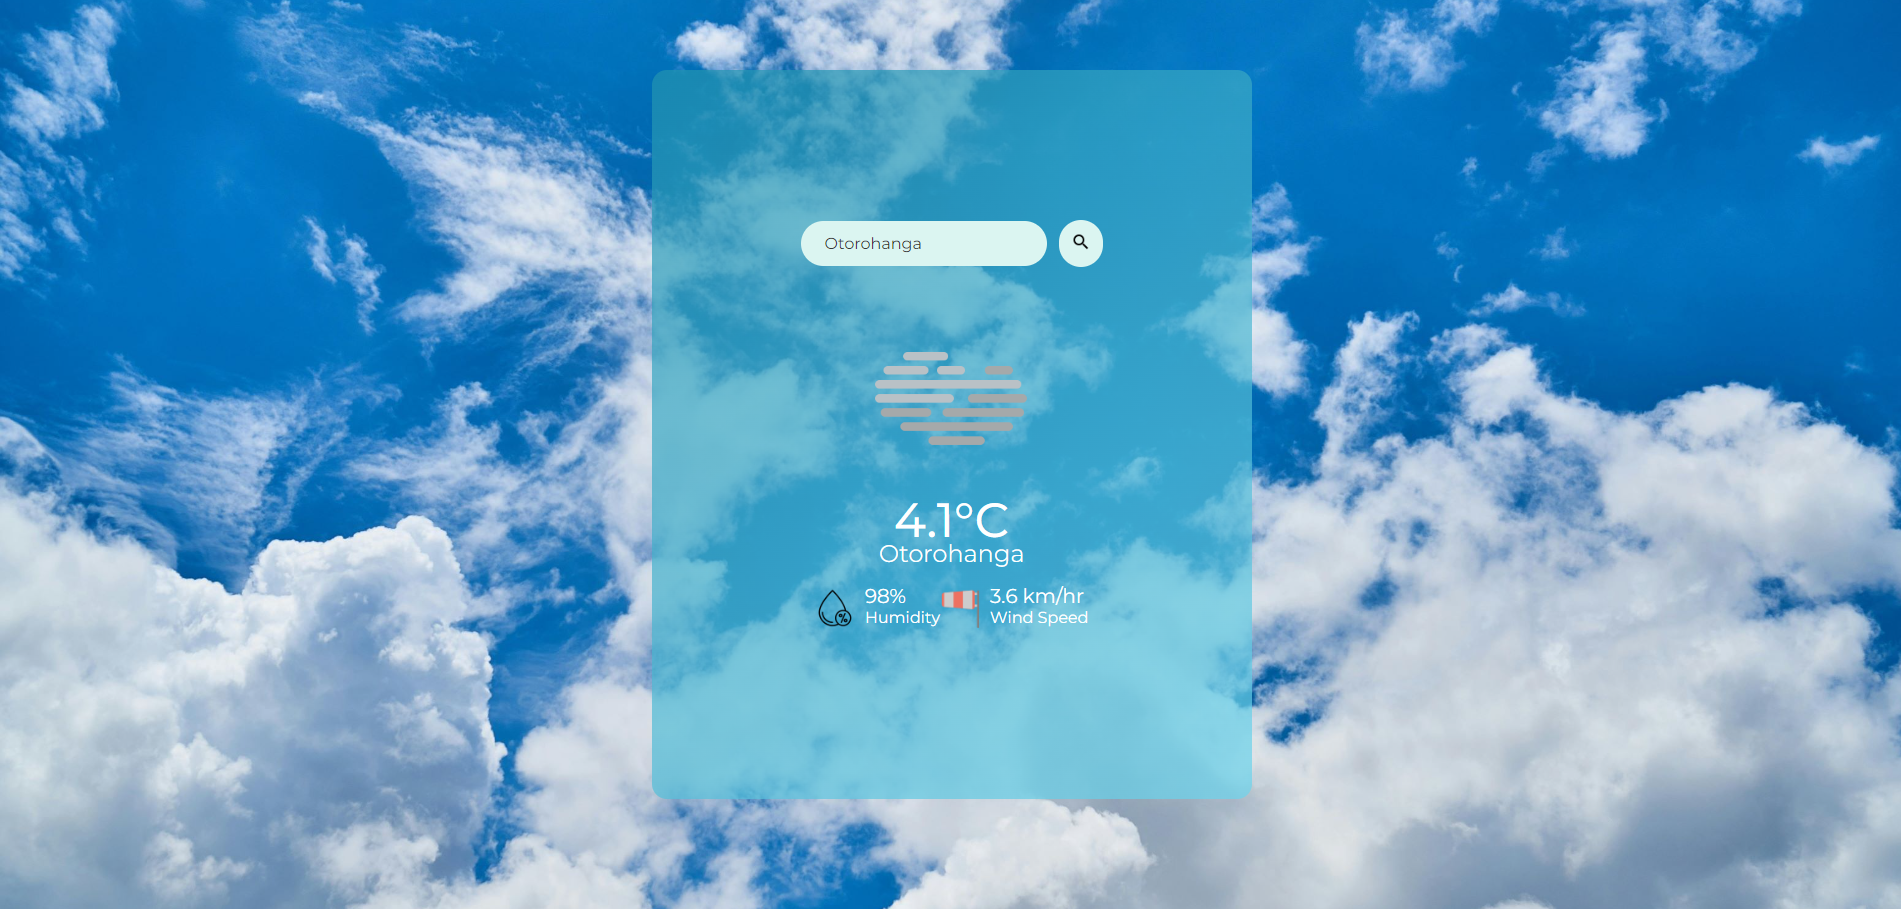
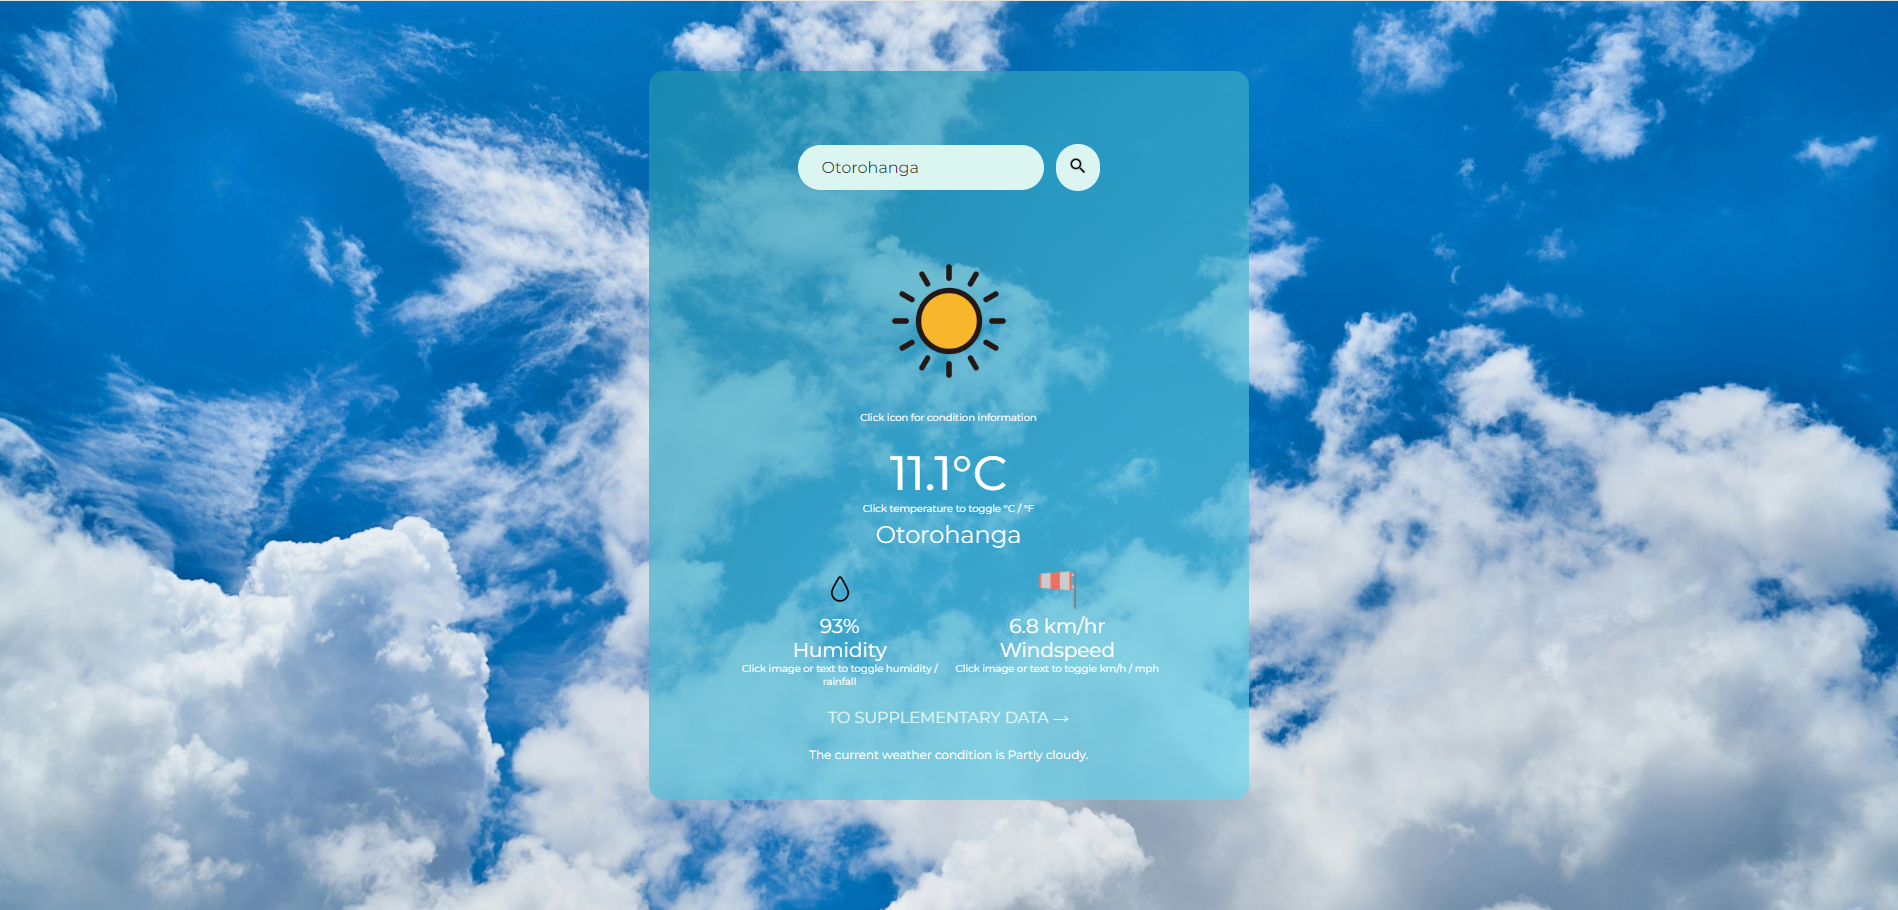
button to return user to main screen from table moved below table for consistency. readme updated

diff --git a/index.html b/index.html
@@ -64,12 +64,12 @@
 
         <!--Table of comprehensive Information-->
         <section id="table-view" class="hidden">
-            <button id="hide-table" class="arrow-button">TO STANDARD DATA ←</button>
             <table id="weather-table">
                 <tbody>
                 <!-- Table content -->
                 </tbody>
             </table>
+            <button id="hide-table" class="arrow-button">TO STANDARD DATA ←</button>
         </section>
 
     </main>

diff --git a/assets/styles/style.css b/assets/styles/style.css
@@ -198,6 +198,10 @@ body {
     transform: scale(1.1);
 }
 
+#hide-table {
+    margin-top: 10px;
+}
+
 /*Media queries for responsivity on varying screen sizes*/
 @media screen and (max-width: 1024px) {
     .explainer {

diff --git a/README.md b/README.md
@@ -1,6 +1,6 @@
 # World Wide Weather
 
-World Wide Weather is a simple web app that allows users to make API calls that feedback the temperature, condition, humidity, rainfall and wind-speed of a location of their choice. Points of importance will increase in size and display a title with extra information when the user hovers over them with their mouse, the user can also alternate between centigrade and farenheit, mph and km/h windspeed, as well as humidity and rainfall.
+World Wide Weather is a simple web app that allows users to make API calls that feedback the temperature, condition, humidity, rainfall and wind-speed of a location of their choice. Points of importance will increase in size and display a title with extra information when the user hovers over them with their mouse, the user can also alternate between centigrade and farenheit, mph and km/h windspeed, as well as humidity and rainfall. Additionally the user can pan to a more data intensive table of potentially useful weather information.
 
 ![Responsive Mockup](assets/images/mock-up.png)
 
@@ -9,7 +9,7 @@ World Wide Weather is a simple web app that allows users to make API calls that 
 - __The Strategy Plane__
   - Defining Goals and User Needs:
     - Our goal is to provide a user friendly web app that allows users to search by location for various weather factors including wind speed, humidity and temperature.
-    - User needs are clear aesthetically pleasing presentation of the required information, easy and logical site navigation, such as use of the search bar, and some interactivity.
+    - User needs are clear, aesthetically pleasing presentation of the required information, easy and logical site navigation, such as use of the search bar, and interactivity via responsive data points and a table of additional information.
 
 - __The Scope Plane__
   - Determining Features and Content:
@@ -17,6 +17,7 @@ World Wide Weather is a simple web app that allows users to make API calls that 
     - Upon a successful search the user will see an image relevant to the weather condition stipulated in the JSON, the temperature, the humidity and the windspeed.
     - The user can hover over the icons for search, weather condition, humidity and windspeed and a string of additional information will appear on screen.
     - The user can click on any of the data pieces/ icons to get some alternate information.
+    - The user can click the supplementary data button and view a table of information such as wind direction, location information, and UV index.
     - There is a visually appealing background image of the sky.
 
 - __The Structure Plane__
@@ -24,9 +25,11 @@ World Wide Weather is a simple web app that allows users to make API calls that 
     - Search Bar and Button - Set at the highest point of the user interface for ease of use.
     - Weather Icon and Temperature - Largest and most relevant information in the centre of the screen.
     - Sub-data - Humidity and Windspeed sections smaller housed low to left and right of centre.
+    - Supplementary data - Can be clicked to change the user's screen entirely.
+    - Additional information - Changing line at the bottom of the site that reacts to user clicks.
 
 - __The Skeleton Plane__
-  - Layout and navigation design plan across device types:
+  - The layout and navigation design plan across device types can be seen below. Note that at inception the idea for the table of supplementary data hadn't yet been suggested.
 
     [Wireframe Desktop](assets/images/wireframe-laptop.png)
     [Wireframe Tablet](assets/images/wireframe-tablet.png)
@@ -57,19 +60,27 @@ World Wide Weather is a simple web app that allows users to make API calls that 
 
   - The weather icon changes depending on the condition field in the weather data pulled from the JSON.
   - When the phone/tablet user taps on the weather icon it increases in size, when the laptop user hovers over the weather icon it increases in size and a line of text appears on screen stating the current weather condition.
-  - Users can click on either the temperature or the weather icon and toggle between centigrade and farenheit.
+  - Users can click on the weather icon and the text at the bottom of the page will show the weather condition.
+  - Users can click on the temperature to toggle between centigrade and farenheit.
   - Temperature is the largest text on the page as the most important written data.
-  - The location data is being presented for can be seen just under the temperature.
+  - The location can be seen just under the temperature.
 
 ![Weather Icon, Temperature and Location](assets/images/temp-icon-location.png)
 
 - __Humidity and Windspeed__ 
 
   - The bottom section of the user interface displays both the humidity and the windspeed at the chosen location.
-  - Phone/tablet users can tap on the icons and they will increase in size, the laptop/desktop user can hover over the icons and they will increase in size ans they will see a short description of what each feature means.
+  - Phone/tablet users can tap on the icons and they will increase in size, the laptop/desktop user can hover over the icons and they will increase in size ans they will see a short description of what each feature means. When either type of user clicks on the data points the text at the bottom of the screen will change to give a more detailed explanation of each datapoint.
   - All users can click/tap the windspeed text/icon to toggle between windspeed in km/hr and mph, or the droplet icon/text and toggle between precipitation and humidity.
 
 ![Humidity and Windspeed](assets/images/humidity.png)
+
+- __Supplementary Table of Data__ 
+
+  - The user can click the button that says "TO SUPPLEMENTARY DATA →" to be brought to a table with a wide variety of additional location and weather information.
+  - When looking at the table the user will be able to return to the main page by clicking the button that says "TO STANDARD DATA ←".
+
+![Data Table](assets/images/table.png)
 
 ## Bugs
 
